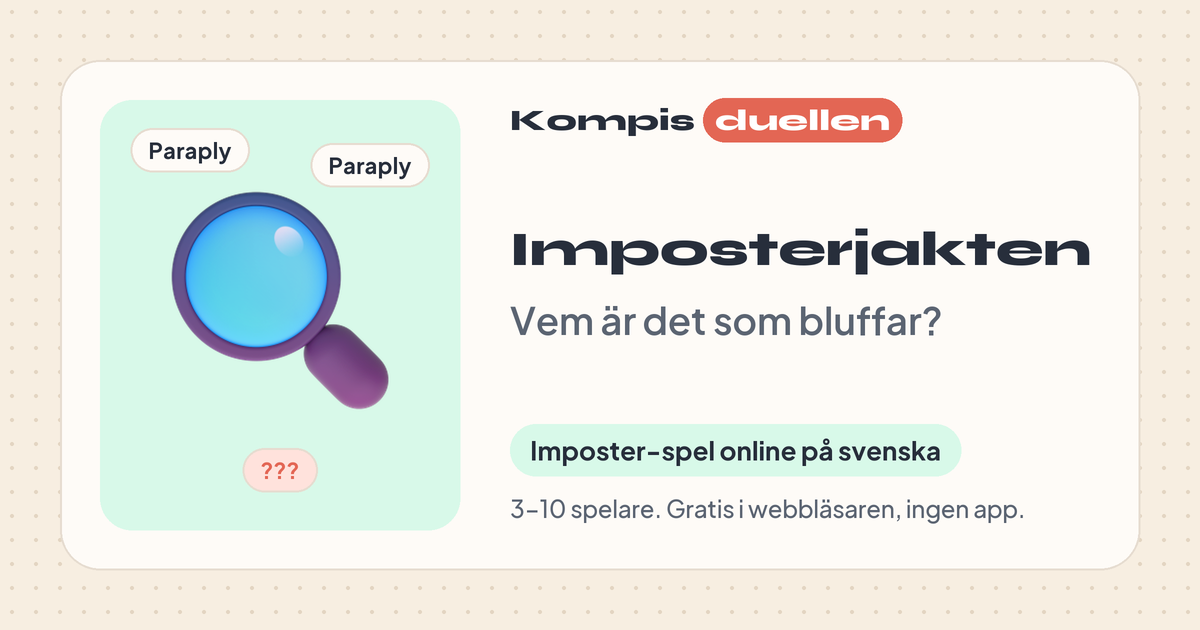
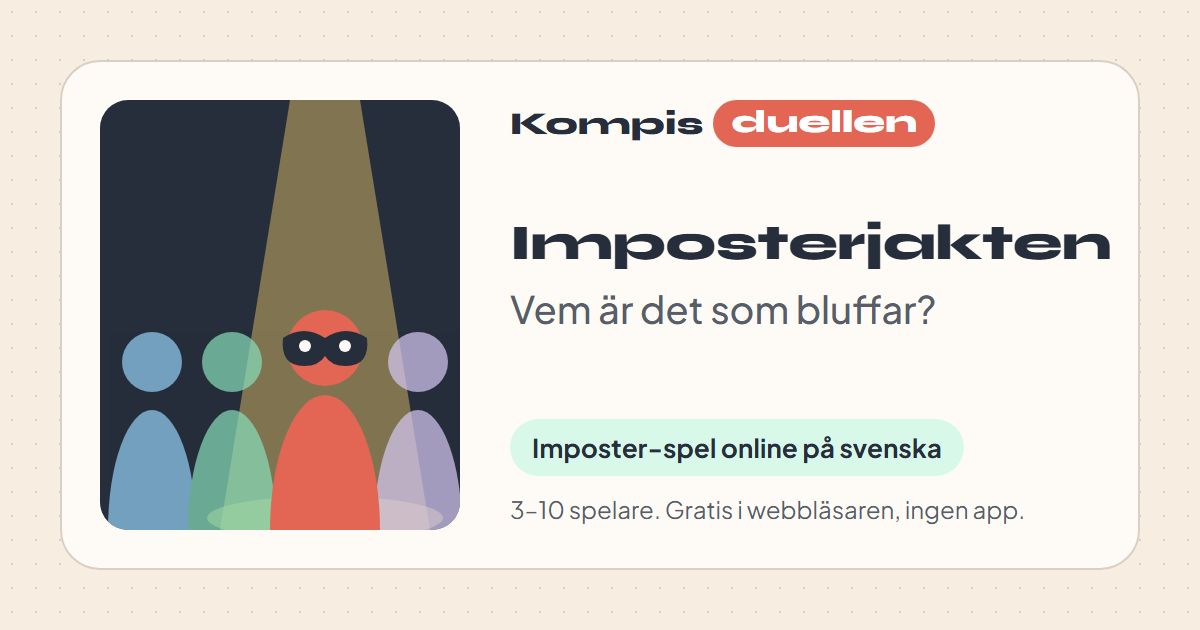
Imposterjakten får en egen bild: en rad figurer där en har mask under en ljuskägla

diff --git a/src/components/SpelKort.tsx b/src/components/SpelKort.tsx
@@ -1,6 +1,6 @@
 import { useEffect, useRef, useState, type ReactNode } from 'react'
 import { Link } from 'react-router'
-import { ArrowRight, Info, Search } from 'lucide-react'
+import { ArrowRight, Info } from 'lucide-react'
 import { Button } from '@/components/ui/button'
 import { playersLabel, type GameInfo } from '@/lib/games'
 import { gamePageFor } from '@/lib/spelsidor'
@@ -55,23 +55,31 @@ const PREVIEWS: Record<string, ReactNode> = {
     </div>
   ),
   imposterjakten: (
-    // Tre ordkort i rad, två med samma ord och ett med frågetecken. Korten glider isär, frågetecknet vickar till och
-    // ett förstoringsglas glider fram och stannar över det. Då får kortet en korallröd kant, som att impostern hittats.
-    <div className="relative flex items-center gap-1.5 [&>div]:transition-[translate,border-color] [&>div]:duration-300 [&>div]:ease-out">
-      <div className="-rotate-6 rounded-md border bg-card px-2.5 py-2 shadow-soft-sm motion-safe:group-hover:-translate-x-2 motion-safe:group-data-[play=true]:-translate-x-2">
-        <p className="font-heading text-xs font-bold">Paraply</p>
-      </div>
-      <div className="rounded-md border bg-card px-2.5 py-2 shadow-soft-sm motion-safe:group-hover:-translate-y-1 motion-safe:group-data-[play=true]:-translate-y-1">
-        <p className="font-heading text-xs font-bold">Paraply</p>
-      </div>
-      <div className="rotate-6 rounded-md border-2 bg-card px-3 py-1.5 shadow-soft-sm delay-200 group-hover:border-primary group-data-[play=true]:border-primary motion-safe:group-hover:translate-x-2 motion-safe:group-hover:animate-wiggle motion-safe:group-data-[play=true]:translate-x-2 motion-safe:group-data-[play=true]:animate-wiggle">
-        <p className="font-heading text-sm font-bold text-primary">???</p>
-      </div>
-      <Search
-        className="absolute -right-12 -bottom-4 size-8 rotate-12 opacity-0 transition-[translate,rotate,opacity] delay-150 duration-500 ease-out motion-safe:group-hover:-translate-x-9 motion-safe:group-hover:-translate-y-2 motion-safe:group-hover:rotate-0 motion-safe:group-hover:opacity-100 motion-safe:group-data-[play=true]:-translate-x-9 motion-safe:group-data-[play=true]:-translate-y-2 motion-safe:group-data-[play=true]:rotate-0 motion-safe:group-data-[play=true]:opacity-100"
-        strokeWidth={2.5}
-      />
-    </div>
+    // En mörk scen med en rad figurer. Ljuskäglan står på den med masken, som vickar till.
+    <svg viewBox="0 0 220 84" className="h-22 w-auto">
+      <rect width="220" height="84" rx="14" className="fill-foreground" />
+      <path d="M126 0 H150 L184 84 H92 Z" className="fill-sun" opacity="0.45" />
+      {[
+        [34, 'fill-sky'],
+        [80, 'fill-mint'],
+        [188, 'fill-lilac'],
+      ].map(([x, color]) => (
+        <g key={x} className={String(color)} opacity="0.75">
+          <circle cx={Number(x)} cy="42" r="13" />
+          <path d={`M${Number(x) - 19} 84 a19 22 0 0 1 38 0 Z`} />
+        </g>
+      ))}
+      <g className="origin-[138px_60px] motion-safe:group-hover:animate-wiggle motion-safe:group-data-[play=true]:animate-wiggle">
+        <circle cx="138" cy="42" r="14" className="fill-primary" />
+        <path d="M117 84 a21 24 0 0 1 42 0 Z" className="fill-primary" />
+        <path
+          d="M122 38 Q130 33 138 38 Q146 33 154 38 Q155 48 146 48 Q140 48 138 44 Q136 48 130 48 Q121 48 122 38 Z"
+          className="fill-foreground"
+        />
+        <circle cx="131" cy="41" r="2.4" className="fill-card" />
+        <circle cx="145" cy="41" r="2.4" className="fill-card" />
+      </g>
+    </svg>
   ),
 }
 

diff --git a/src/lib/spelsidor.ts b/src/lib/spelsidor.ts
@@ -134,7 +134,7 @@ export const GAME_PAGES: GamePageInfo[] = [
       'Fångar ni impostern får ni poäng, och impostern kan ta en poäng genom att gissa ordet. Kommer impostern undan får den poäng. Värden väljer 1, 2 eller 3 omgångar, och flest poäng efter sista omgången vinner.',
     ],
     time: '5–15 minuter',
-    image: { path: '/og/imposterjakten.png', alt: 'Imposterjakten: imposter-spel online på svenska för 3–10 spelare' },
+    image: { path: '/og/imposterjakten.png', alt: 'Imposterjakten: en rad figurer där en har mask under en ljuskägla. Imposter-spel online på svenska för 3–10 spelare' },
     faq: [
       // Distansfrågan står med egna ord här, så den gemensamma hoppas över.
       ...commonFaq('Imposterjakten', 3).filter((item) => !item.question.includes('Discord')),
